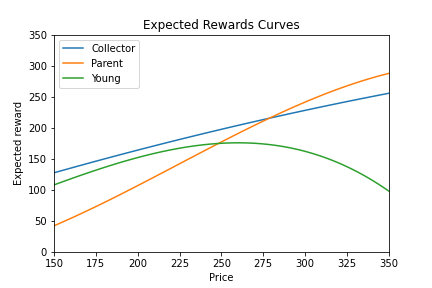
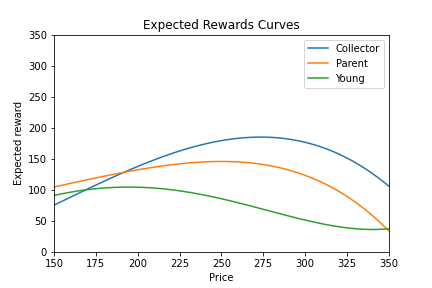
New conversion curves

diff --git a/Environments/Users.py b/Environments/Users.py
@@ -50,11 +50,11 @@ class User(ABC):
     #      Demand curve        #
     ############################
 
-    def concave_function(self, x, a, b, c, d):
+    def base_function(self, x, a, b, c, d):
         """
         Function used to fit the demand curve
         """
-        return a + b * x + c * x**2
+        return a + b * x + c * x**2 + d * x**3 # + np.exp(d * x)
 
     def fit_demand_curve(self):
         """
@@ -62,7 +62,7 @@ class User(ABC):
         """
         x_val = np.linspace(self._min_price, self._max_price, len(self._probabilities)).astype(np.float32)
         y_val = self._probabilities
-        params, _ = curve_fit(self.concave_function, x_val, y_val)
+        params, _ = curve_fit(self.base_function, x_val, y_val)
         self._curve_params = params
         return
 
@@ -72,7 +72,7 @@ class User(ABC):
         """
         if self._curve_params is None:
             self.fit_demand_curve()
-        return self.concave_function(price, *self._curve_params)
+        return self.base_function(price, *self._curve_params)
 
     def plot_demand_curve(self):
         """
@@ -191,10 +191,10 @@ class UserC1(User):
     """
 
     def __init__(self):
-        super().__init__(True, True, np.array([0.9, 0.7, 0.85, 0.8, 0.7]))
+        super().__init__(True, True, np.array([0.5, 0.7, 0.7, 0.6, 0.3]))
 
     def click_vs_bid(self, bid):
-        return (1 - np.exp(- 3.0 * bid - 0.5 * bid**2))  * 70
+        return (1 - np.exp(- 8.0 * bid - 0.5 * bid**2))  * 70
 
     def cost_vs_bid(self, bid):
         return 1.9*np.log(1+bid/1.9) # S
@@ -208,7 +208,7 @@ class UserC2(User):
     Parent User
     """
     def __init__(self):
-        probabilities = np.array([0.3, 0.5, 0.7, 0.85, 0.8])
+        probabilities = np.array([0.7, 0.65, 0.6, 0.4, 0.1])
         super().__init__(True, False, probabilities)
 
     def click_vs_bid(self, bid):
@@ -226,7 +226,7 @@ class UserC3(User):
     def __init__(self):
         feature1 = False
         feature2 = np.random.choice([True, False])
-        probabilities = np.array([0.7, 0.8, 0.7, 0.5, 0.3])
+        probabilities = np.array([0.6, 0.55, 0.3, 0.2, 0.1])
         super().__init__(feature1, feature2, probabilities)
     
     def click_vs_bid(self, bid):
